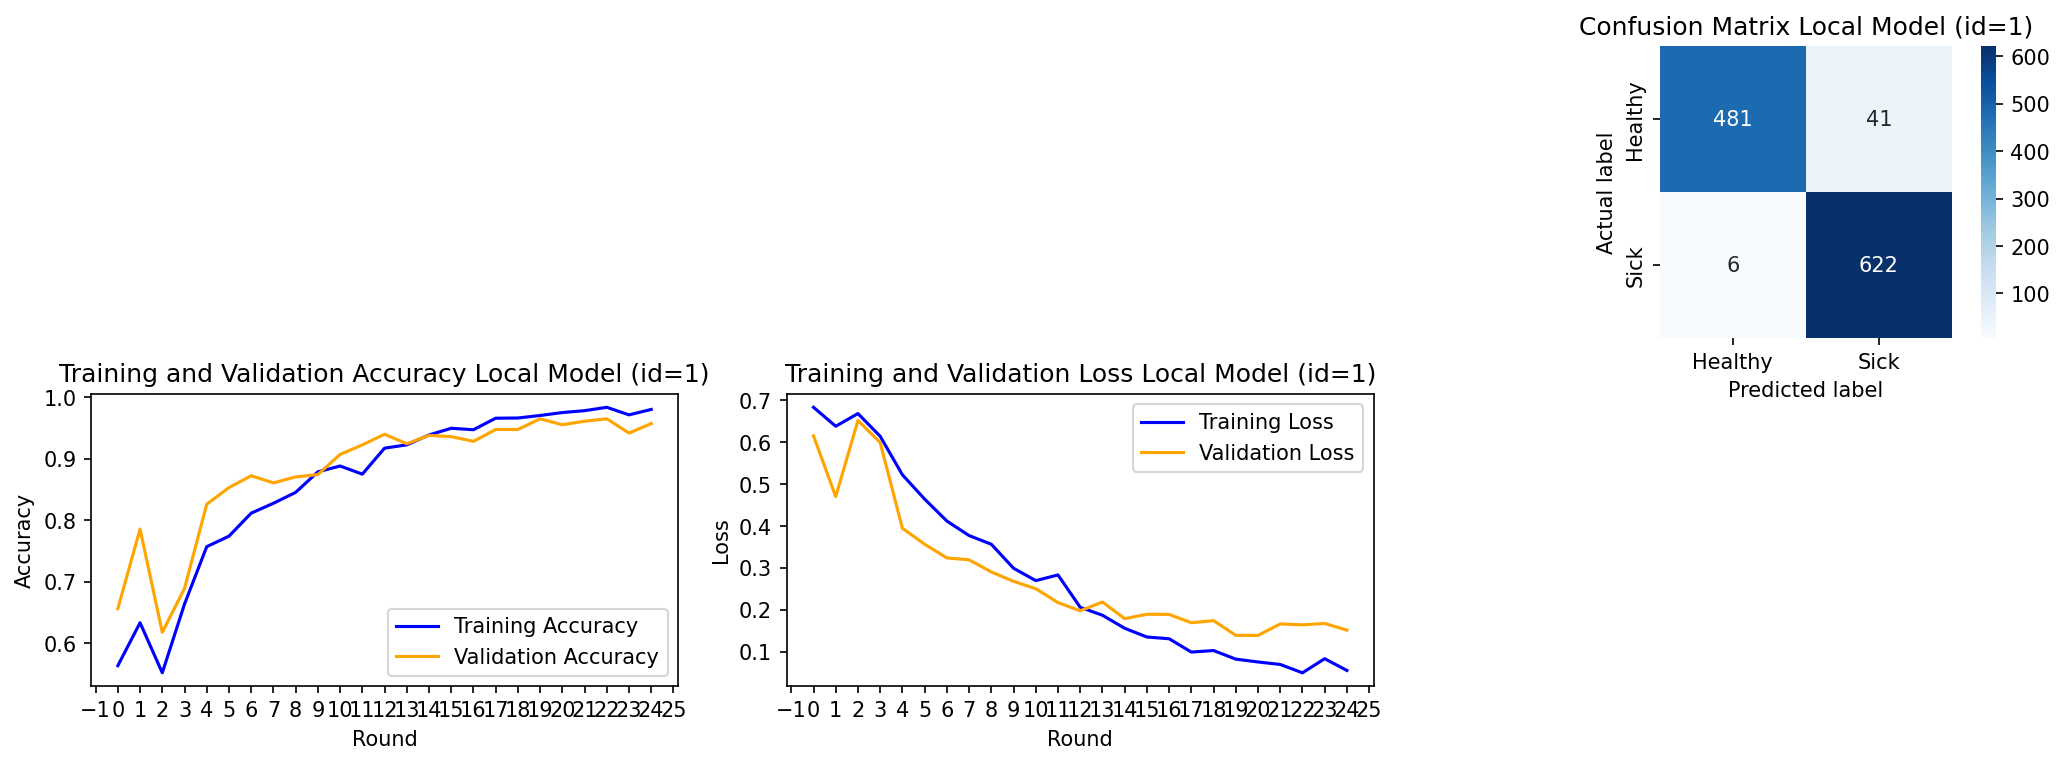
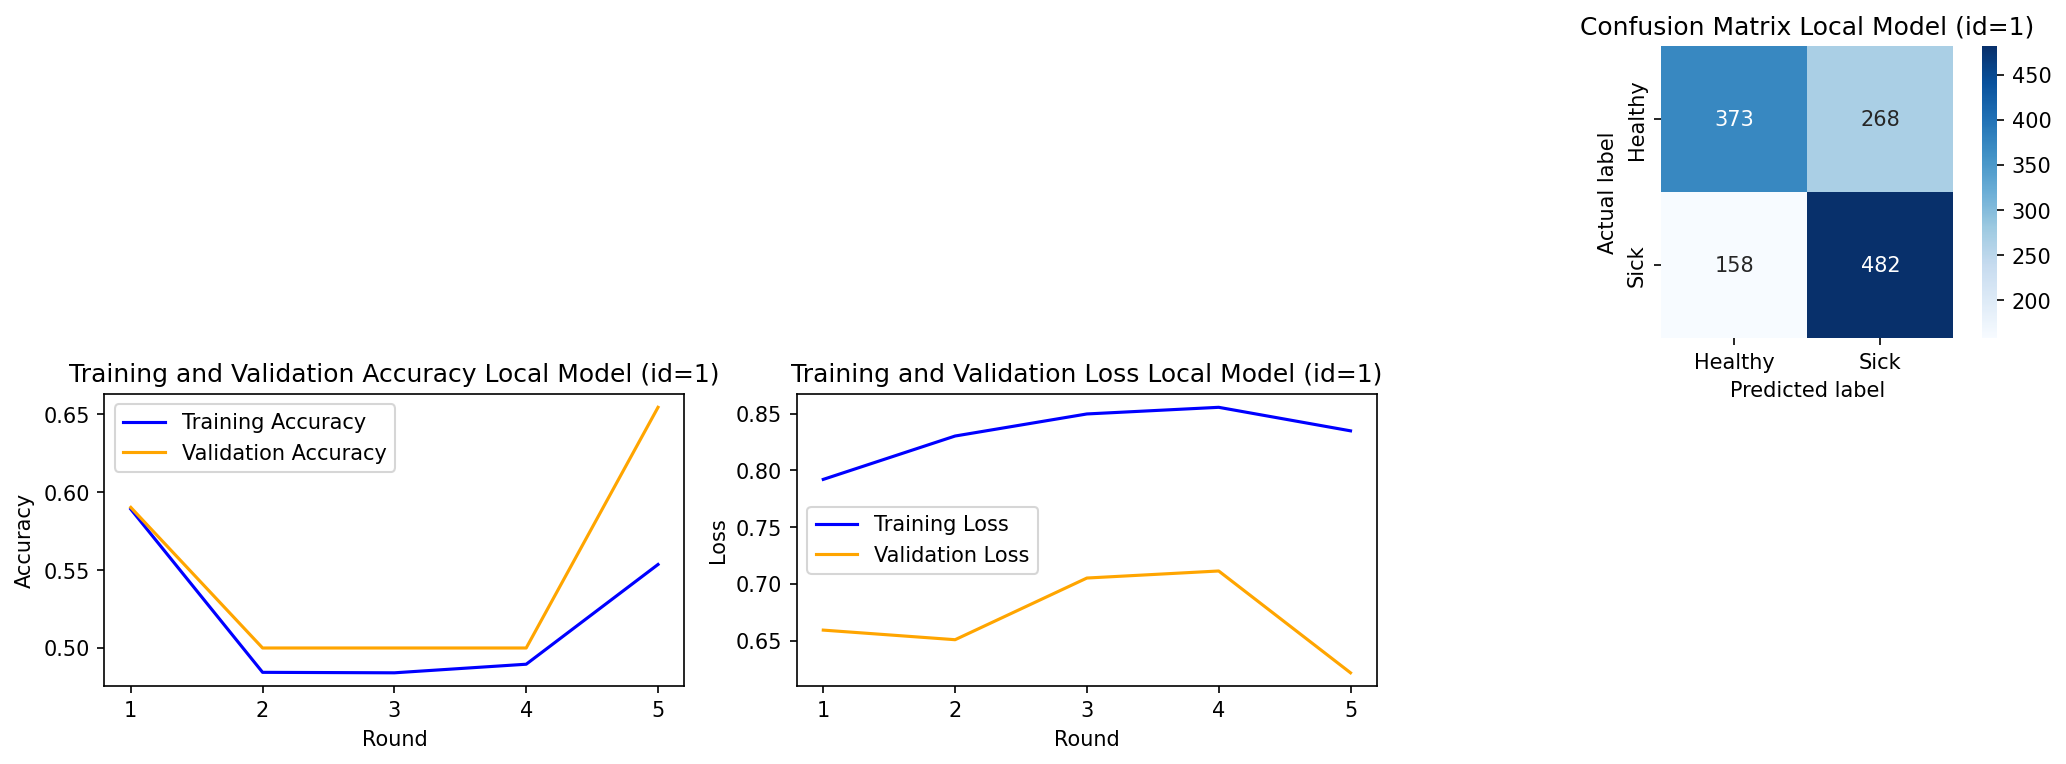
OOD Exp2

diff --git a/project/main.py b/project/main.py
@@ -401,12 +401,107 @@ class Experiment1Simulation():
         )
         return federated.run()
 
-
+class Experiment2Simulation():
+    """
+    3.4.2 Experiment 2: 1 OOD local model with complete poisoned dataset.
+    OOD detection ENABLED.
+ 
+    Setup:
+      - Global model (id=0): loads pre-trained weights, tests on all 4 ID datasets.
+      - Local model  (id=1): starts from global weights (load_reg=True),
+                             trains on complete Balzheimer5100_poisoned().
+      - OOD detection is active from round 1. The HDFF mechanism compares the
+        local model's feature bundle to the global model's. If cosine similarity
+        drops below ood_protection_thres (0.7), client 1 is excluded from FedAvg.
+ 
+    Expected result: OOD detection identifies the poisoned client and the global
+    model accuracy remains stable (protected) across all 5 rounds.
+ 
+    IMPORTANT: Run PreTrainingSimulation first to generate saved weights.
+    """
+    LOAD_ROUND = 35
+    SAVE_PATH  = "./.env/.saved/"
+ 
+    federated_config = ConfigFederated(
+        debug          = True,
+        save           = False,
+        load_round     = LOAD_ROUND,
+        load_reg       = True,                       # Sync local from global after load
+        load           = True,                       # Load pre-trained global model
+        delete_on_load = False,
+        path           = SAVE_PATH,
+        rounds         = 5,
+        ood_round      = 1,                          # OOD detection active from round 1
+        clients        = 2,                          # global(0) + 1 OOD local(1)
+        participants   = 1,
+        host_id        = 0,
+        client_to_dataset = [[0,1,2,3],[4]]          # global: all 4 ID sets; local: complete poisoned
+    )
+    ood_config = ConfigOod(
+        debug               = True,
+        hdc_debug           = False,
+        enabled             = True,                  # OOD detection ENABLED for Experiment 2
+        hyper_size          = int(1e4),
+        id_client           = [],                    # No clean local clients in this setup
+        ood_client          = [1],                   # Client 1 is the OOD (poisoned) client
+        ood_protection      = True,                  # Exclude detected OOD clients from FedAvg
+        ood_protection_thres= 0.7                    # Similarity < 0.7 → client is OOD
+    )
+    model_config = ConfigModel(
+        debug          = True,
+        epochs         = 1,
+        activation     = 'relu',
+        activation_out = 'softmax',
+        optimizer      = 'adam',
+        loss           = 'categorical_crossentropy'
+    )
+    dataset_config = ConfigDataset(
+        debug           = False,
+        batch_size      = 64,
+        image_size      = 256,
+        input_shape     = (256,256,1),
+        split           = 0.25,
+        number_of_classes = 2
+    )
+    plot_config = ConfigPlot(plot=False, path='./.env/plot', img_per_class=10)
+ 
+    def run(self):
+        m = Model(
+            model_config   = self.model_config,
+            dataset_config = self.dataset_config,
+            plot_config    = self.plot_config
+        )
+        dataset = Dataset(
+            [
+                (Btumor4600().ID,    Btumor4600(),    []),               # id 0  (ID)
+                (Btumor3000().ID,    Btumor3000(),    []),               # id 1  (ID)
+                (Balzheimer5100().ID, Balzheimer5100(), []),             # id 2  (ID)
+                (Lpneumonia5200().ID, Lpneumonia5200(), []),             # id 3  (ID)
+                (Balzheimer5100_poisoned().ID, Balzheimer5100_poisoned(), []),  # id 4 (OOD — complete poisoned)
+            ],
+            dataset_config = self.dataset_config,
+            plot_config    = self.plot_config
+        )
+        federated = Federated(
+            dataset          = dataset,
+            model            = m,
+            federated_config = self.federated_config,
+            ood_config       = self.ood_config,
+            dataset_config   = self.dataset_config,
+            plot_config      = self.plot_config
+        )
+        return federated.run()
+ 
+ 
 if __name__ == "__main__":
     # ── Step 1: Pre-train (run once, then comment out) ──────────────────────
-     sim_pretrain = PreTrainingSimulation()
-     sim_pretrain.run()
-
+    # sim_pretrain = PreTrainingSimulation()
+    # sim_pretrain.run()
+ 
     # ── Step 2: Experiment 1 — 1 OOD local model, OOD detection disabled ───
-    #sim_exp1 = Experiment1Simulation()
-    #sim_exp1.run()
+    # sim_exp1 = Experiment1Simulation()
+    # sim_exp1.run()
+ 
+    # ── Step 3: Experiment 2 — 1 OOD local model, OOD detection ENABLED ────
+    sim_exp2 = Experiment2Simulation()
+    sim_exp2.run()

diff --git a/project/federated/federated.py b/project/federated/federated.py
@@ -30,6 +30,7 @@ class Federated():
         self.init_model = model            # This model can be
         self.federated_config = federated_config
         self.ood_config = ood_config
+        self.dataset_config = dataset_config
         self.plot_config = plot_config
         self.models = {}      # model_id: Model instance
         self.datasets = {}    # model_id: dataset iterator(s)
